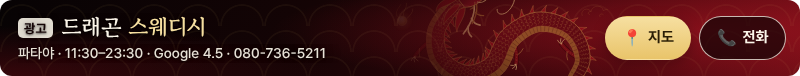
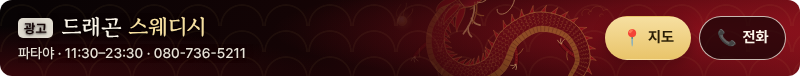
📢 광고 배너: 구글 평점 칩 뺌(약관), 모든 자리 같은 그림 확인 + 승인함 #10 실제 사진

Changed region(s): [[0.1875, 0.6316, 0.4062, 0.8158]]

diff --git a/data/ads.js b/data/ads.js
@@ -1,1 +1,1 @@
-window.TN_ADS = {"_readme": "광고 자리 설정. slots[].items 를 고치고 python3 tools/newslib.py (또는 build_data.py) 를 실행하면 data/ads.js 가 다시 만들어진다(assets/ads/massage/ad.json 도 TN_ADS.dragon 으로 같이 실림). enabled=false 면 모든 광고 숨김. item = {category, title, subtitle, image(선택, https), link(선택, https), theme(1~5), target(이 자리 추천 업종 꼬리표), render:'dragon'(드래곤 스웨디시 배너), variant:large|strip|small|bar, preview(카톡·라인 '#' 자리표시)}. 2026-10-03: 모든 자리 = 운영자 가게 드래곤 스웨디시(파타야) 배너 + '📢 이 자리 추천 업종' 꼬리표 / 2026-10-03 야간: 내 피드 지역 광고 자리 region-east|bangkok|north|south|other(사는 곳별 타게팅, 내 지역 뉴스 바로 아래) 추가 / 2026-10-03 애드센스 준비: slot.unit = 표준 광고 단위(320x100 모바일 큰 배너 · 300x250 중간 직사각형 · 336x280 큰 직사각형 · responsive 반응형) — 화면은 이 크기 칸을 미리 잡아 둠(밀림 방지). slot.adsense_slot = 애드센스 승인 뒤 받는 광고 단위 id(비어 있으면 지금처럼 드래곤 하우스 광고). 자동 광고·팝업 광고는 쓰지 않음", "enabled": true, "label": "광고", "slots": [{"id": "top", "size": "strip", "enabled": true, "items": [{"category": "한식당", "title": "드래곤 스웨디시 (파타야)", "subtitle": "파타야 3rd Road · 11:30–23:30 · ☎ 080-736-5211", "link": "https://maps.app.goo.gl/sxwzECaxPxkANutE9", "theme": 5, "render": "dragon", "variant": "bar", "target": "한식당"}], "unit": "320x100", "adsense_slot": ""}, {"id": "mid", "size": "large", "enabled": true, "items": [{"category": "부동산(콘도·임대)", "title": "드래곤 스웨디시 (파타야)", "subtitle": "파타야 3rd Road · 11:30–23:30 · ☎ 080-736-5211", "link": "https://maps.app.goo.gl/sxwzECaxPxkANutE9", "theme": 5, "render": "dragon", "variant": "large", "target": "부동산(콘도·임대)", "preview": true}], "unit": "responsive", "adsense_slot": ""}, {"id": "korea-mid", "size": "strip", "enabled": true, "items": [{"category": "환전·송금", "title": "드래곤 스웨디시 (파타야)", "subtitle": "파타야 3rd Road · 11:30–23:30 · ☎ 080-736-5211", "link": "https://maps.app.goo.gl/sxwzECaxPxkANutE9", "theme": 5, "render": "dragon", "variant": "bar", "target": "환전·송금"}], "unit": "320x100", "adsense_slot": ""}, {"id": "infeed", "size": "medium", "enabled": true, "every": 5, "items": [{"category": "비자 대행", "title": "드래곤 스웨디시 (파타야)", "subtitle": "파타야 3rd Road · 11:30–23:30 · ☎ 080-736-5211", "link": "https://maps.app.goo.gl/sxwzECaxPxkANutE9", "theme": 5, "render": "dragon", "variant": "small", "target": "비자 대행"}, {"category": "여행사·투어", "title": "드래곤 스웨디시 (파타야)", "subtitle": "파타야 3rd Road · 11:30–23:30 · ☎ 080-736-5211", "link": "https://maps.app.goo.gl/sxwzECaxPxkANutE9", "theme": 5, "render": "dragon", "variant": "small", "target": "여행사·투어"}, {"category": "병원·약국", "title": "드래곤 스웨디시 (파타야)", "subtitle": "파타야 3rd Road · 11:30–23:30 · ☎ 080-736-5211", "link": "https://maps.app.goo.gl/sxwzECaxPxkANutE9", "theme": 5, "render": "dragon", "variant": "small", "target": "병원·약국"}], "unit": "300x250", "adsense_slot": ""}, {"id": "drawer", "size": "small", "enabled": true, "items": [{"category": "골프·레저", "title": "드래곤 스웨디시 (파타야)", "subtitle": "파타야 3rd Road · 11:30–23:30 · ☎ 080-736-5211", "link": "https://maps.app.goo.gl/sxwzECaxPxkANutE9", "theme": 5, "render": "dragon", "variant": "bar", "target": "골프·레저"}], "unit": "320x100", "adsense_slot": ""}, {"id": "nearby-food", "size": "medium", "enabled": true, "items": [{"category": "한식당·맛집", "title": "드래곤 스웨디시 (파타야)", "subtitle": "파타야 3rd Road · 11:30–23:30 · ☎ 080-736-5211", "link": "https://maps.app.goo.gl/sxwzECaxPxkANutE9", "theme": 5, "render": "dragon", "variant": "small", "target": "한식당·맛집"}], "unit": "300x250", "adsense_slot": ""}, {"id": "nearby-massage", "size": "medium", "enabled": true, "items": [{"category": "마사지·스파", "title": "드래곤 스웨디시 (파타야)", "subtitle": "파타야 3rd Road · 11:30–23:30 · ☎ 080-736-5211", "link": "https://maps.app.goo.gl/sxwzECaxPxkANutE9", "theme": 5, "render": "dragon", "variant": "small", "target": "마사지·스파"}], "unit": "300x250", "adsense_slot": ""}, {"id": "nearby-pet", "size": "medium", "enabled": true, "items": [{"category": "동물병원·펫샵", "title": "드래곤 스웨디시 (파타야)", "subtitle": "파타야 3rd Road · 11:30–23:30 · ☎ 080-736-5211", "link": "https://maps.app.goo.gl/sxwzECaxPxkANutE9", "theme": 5, "render": "dragon", "variant": "small", "target": "동물병원·펫샵"}], "unit": "300x250", "adsense_slot": ""}, {"id": "nearby-beauty", "size": "medium", "enabled": true, "items": [{"category": "피부과·성형·에스테틱", "title": "드래곤 스웨디시 (파타야)", "subtitle": "파타야 3rd Road · 11:30–23:30 · ☎ 080-736-5211", "link": "https://maps.app.goo.gl/sxwzECaxPxkANutE9", "theme": 5, "render": "dragon", "variant": "small", "target": "피부과·성형·에스테틱"}], "unit": "300x250", "adsense_slot": ""}, {"id": "nearby-moto", "size": "medium", "enabled": true, "items": [{"category": "오토바이 렌탈·판매", "title": "드래곤 스웨디시 (파타야)", "subtitle": "파타야 3rd Road · 11:30–23:30 · ☎ 080-736-5211", "link": "https://maps.app.goo.gl/sxwzECaxPxkANutE9", "theme": 5, "render": "dragon", "variant": "small", "target": "오토바이 렌탈·판매"}], "unit": "300x250", "adsense_slot": ""}, {"id": "footer", "size": "wide", "enabled": true, "items": [{"category": "여행사·투어", "title": "드래곤 스웨디시 (파타야)", "subtitle": "파타야 3rd Road · 11:30–23:30 · ☎ 080-736-5211", "link": "https://maps.app.goo.gl/sxwzECaxPxkANutE9", "theme": 5, "render": "dragon", "variant": "strip", "target": "여행사·투어"}], "unit": "responsive", "adsense_slot": ""}, {"id": "region-east", "size": "medium", "enabled": true, "items": [{"category": "동부 한인 업체(부동산·식당·학원)", "title": "드래곤 스웨디시 (파타야)", "subtitle": "파타야 3rd Road · 11:30–23:30 · ☎ 080-736-5211", "link": "https://maps.app.goo.gl/sxwzECaxPxkANutE9", "theme": 5, "render": "dragon", "variant": "small", "target": "동부 한인 업체(부동산·식당·학원)"}], "unit": "300x250", "adsense_slot": ""}, {"id": "region-bangkok", "size": "medium", "enabled": true, "items": [{"category": "방콕 한인 식당·학원·병원", "title": "드래곤 스웨디시 (파타야)", "subtitle": "파타야 3rd Road · 11:30–23:30 · ☎ 080-736-5211", "link": "https://maps.app.goo.gl/sxwzECaxPxkANutE9", "theme": 5, "render": "dragon", "variant": "small", "target": "방콕 한인 식당·학원·병원"}], "unit": "300x250", "adsense_slot": ""}, {"id": "region-north", "size": "medium", "enabled": true, "items": [{"category": "치앙마이 숙소·골프·투어", "title": "드래곤 스웨디시 (파타야)", "subtitle": "파타야 3rd Road · 11:30–23:30 · ☎ 080-736-5211", "link": "https://maps.app.goo.gl/sxwzECaxPxkANutE9", "theme": 5, "render": "dragon", "variant": "small", "target": "치앙마이 숙소·골프·투어"}], "unit": "300x250", "adsense_slot": ""}, {"id": "region-south", "size": "medium", "enabled": true, "items": [{"category": "푸껫·사무이 투어·다이빙·숙소", "title": "드래곤 스웨디시 (파타야)", "subtitle": "파타야 3rd Road · 11:30–23:30 · ☎ 080-736-5211", "link": "https://maps.app.goo.gl/sxwzECaxPxkANutE9", "theme": 5, "render": "dragon", "variant": "small", "target": "푸껫·사무이 투어·다이빙·숙소"}], "unit": "300x250", "adsense_slot": ""}, {"id": "region-other", "size": "medium", "enabled": true, "items": [{"category": "여행자 보험·유심·환전", "title": "드래곤 스웨디시 (파타야)", "subtitle": "파타야 3rd Road · 11:30–23:30 · ☎ 080-736-5211", "link": "https://maps.app.goo.gl/sxwzECaxPxkANutE9", "theme": 5, "render": "dragon", "variant": "small", "target": "여행자 보험·유심·환전"}], "unit": "300x250", "adsense_slot": ""}], "dragon": {"id": "dragon-massage-pattaya", "label": "광고", "title": "드래곤 스웨디시 (파타야)", "link": "https://maps.app.goo.gl/sxwzECaxPxkANutE9", "tel": "tel:+66807365211", "kakao_url": "", "line_url": "", "display": {"brand_en": "DRAGON SWEDISH · PATTAYA", "name_lead": "드래곤", "name_main": "스웨디시", "copy": "파타야 스웨디시 마사지 · 하루의 피로를 풀어주는 편안한 휴식", "copy_short": "하루의 피로를 풀어주는 편안한 휴식", "hours_short": "11:30–23:30", "rating_short": "Google 4.5", "area_short": "파타야 3rd Road", "area_city": "파타야", "phone_display": "080-736-5211"}}};
+window.TN_ADS = {"_readme": "광고 자리 설정. slots[].items 를 고치고 python3 tools/newslib.py (또는 build_data.py) 를 실행하면 data/ads.js 가 다시 만들어진다(assets/ads/massage/ad.json 도 TN_ADS.dragon 으로 같이 실림). enabled=false 면 모든 광고 숨김. item = {category, title, subtitle, image(선택, https), link(선택, https), theme(1~5), target(이 자리 추천 업종 꼬리표), render:'dragon'(드래곤 스웨디시 배너), variant:large|strip|small|bar, preview(카톡·라인 '#' 자리표시)}. 2026-10-03: 모든 자리 = 운영자 가게 드래곤 스웨디시(파타야) 배너 + '📢 이 자리 추천 업종' 꼬리표 / 2026-10-03 야간: 내 피드 지역 광고 자리 region-east|bangkok|north|south|other(사는 곳별 타게팅, 내 지역 뉴스 바로 아래) 추가 / 2026-10-03 애드센스 준비: slot.unit = 표준 광고 단위(320x100 모바일 큰 배너 · 300x250 중간 직사각형 · 336x280 큰 직사각형 · responsive 반응형) — 화면은 이 크기 칸을 미리 잡아 둠(밀림 방지). slot.adsense_slot = 애드센스 승인 뒤 받는 광고 단위 id(비어 있으면 지금처럼 드래곤 하우스 광고). 자동 광고·팝업 광고는 쓰지 않음", "enabled": true, "label": "광고", "slots": [{"id": "top", "size": "strip", "enabled": true, "items": [{"category": "한식당", "title": "드래곤 스웨디시 (파타야)", "subtitle": "파타야 3rd Road · 11:30–23:30 · ☎ 080-736-5211", "link": "https://maps.app.goo.gl/sxwzECaxPxkANutE9", "theme": 5, "render": "dragon", "variant": "bar", "target": "한식당"}], "unit": "320x100", "adsense_slot": ""}, {"id": "mid", "size": "large", "enabled": true, "items": [{"category": "부동산(콘도·임대)", "title": "드래곤 스웨디시 (파타야)", "subtitle": "파타야 3rd Road · 11:30–23:30 · ☎ 080-736-5211", "link": "https://maps.app.goo.gl/sxwzECaxPxkANutE9", "theme": 5, "render": "dragon", "variant": "large", "target": "부동산(콘도·임대)", "preview": true}], "unit": "responsive", "adsense_slot": ""}, {"id": "korea-mid", "size": "strip", "enabled": true, "items": [{"category": "환전·송금", "title": "드래곤 스웨디시 (파타야)", "subtitle": "파타야 3rd Road · 11:30–23:30 · ☎ 080-736-5211", "link": "https://maps.app.goo.gl/sxwzECaxPxkANutE9", "theme": 5, "render": "dragon", "variant": "bar", "target": "환전·송금"}], "unit": "320x100", "adsense_slot": ""}, {"id": "infeed", "size": "medium", "enabled": true, "every": 5, "items": [{"category": "비자 대행", "title": "드래곤 스웨디시 (파타야)", "subtitle": "파타야 3rd Road · 11:30–23:30 · ☎ 080-736-5211", "link": "https://maps.app.goo.gl/sxwzECaxPxkANutE9", "theme": 5, "render": "dragon", "variant": "small", "target": "비자 대행"}, {"category": "여행사·투어", "title": "드래곤 스웨디시 (파타야)", "subtitle": "파타야 3rd Road · 11:30–23:30 · ☎ 080-736-5211", "link": "https://maps.app.goo.gl/sxwzECaxPxkANutE9", "theme": 5, "render": "dragon", "variant": "small", "target": "여행사·투어"}, {"category": "병원·약국", "title": "드래곤 스웨디시 (파타야)", "subtitle": "파타야 3rd Road · 11:30–23:30 · ☎ 080-736-5211", "link": "https://maps.app.goo.gl/sxwzECaxPxkANutE9", "theme": 5, "render": "dragon", "variant": "small", "target": "병원·약국"}], "unit": "300x250", "adsense_slot": ""}, {"id": "drawer", "size": "small", "enabled": true, "items": [{"category": "골프·레저", "title": "드래곤 스웨디시 (파타야)", "subtitle": "파타야 3rd Road · 11:30–23:30 · ☎ 080-736-5211", "link": "https://maps.app.goo.gl/sxwzECaxPxkANutE9", "theme": 5, "render": "dragon", "variant": "bar", "target": "골프·레저"}], "unit": "320x100", "adsense_slot": ""}, {"id": "nearby-food", "size": "medium", "enabled": true, "items": [{"category": "한식당·맛집", "title": "드래곤 스웨디시 (파타야)", "subtitle": "파타야 3rd Road · 11:30–23:30 · ☎ 080-736-5211", "link": "https://maps.app.goo.gl/sxwzECaxPxkANutE9", "theme": 5, "render": "dragon", "variant": "small", "target": "한식당·맛집"}], "unit": "300x250", "adsense_slot": ""}, {"id": "nearby-massage", "size": "medium", "enabled": true, "items": [{"category": "마사지·스파", "title": "드래곤 스웨디시 (파타야)", "subtitle": "파타야 3rd Road · 11:30–23:30 · ☎ 080-736-5211", "link": "https://maps.app.goo.gl/sxwzECaxPxkANutE9", "theme": 5, "render": "dragon", "variant": "small", "target": "마사지·스파"}], "unit": "300x250", "adsense_slot": ""}, {"id": "nearby-pet", "size": "medium", "enabled": true, "items": [{"category": "동물병원·펫샵", "title": "드래곤 스웨디시 (파타야)", "subtitle": "파타야 3rd Road · 11:30–23:30 · ☎ 080-736-5211", "link": "https://maps.app.goo.gl/sxwzECaxPxkANutE9", "theme": 5, "render": "dragon", "variant": "small", "target": "동물병원·펫샵"}], "unit": "300x250", "adsense_slot": ""}, {"id": "nearby-beauty", "size": "medium", "enabled": true, "items": [{"category": "피부과·성형·에스테틱", "title": "드래곤 스웨디시 (파타야)", "subtitle": "파타야 3rd Road · 11:30–23:30 · ☎ 080-736-5211", "link": "https://maps.app.goo.gl/sxwzECaxPxkANutE9", "theme": 5, "render": "dragon", "variant": "small", "target": "피부과·성형·에스테틱"}], "unit": "300x250", "adsense_slot": ""}, {"id": "nearby-moto", "size": "medium", "enabled": true, "items": [{"category": "오토바이 렌탈·판매", "title": "드래곤 스웨디시 (파타야)", "subtitle": "파타야 3rd Road · 11:30–23:30 · ☎ 080-736-5211", "link": "https://maps.app.goo.gl/sxwzECaxPxkANutE9", "theme": 5, "render": "dragon", "variant": "small", "target": "오토바이 렌탈·판매"}], "unit": "300x250", "adsense_slot": ""}, {"id": "footer", "size": "wide", "enabled": true, "items": [{"category": "여행사·투어", "title": "드래곤 스웨디시 (파타야)", "subtitle": "파타야 3rd Road · 11:30–23:30 · ☎ 080-736-5211", "link": "https://maps.app.goo.gl/sxwzECaxPxkANutE9", "theme": 5, "render": "dragon", "variant": "strip", "target": "여행사·투어"}], "unit": "responsive", "adsense_slot": ""}, {"id": "region-east", "size": "medium", "enabled": true, "items": [{"category": "동부 한인 업체(부동산·식당·학원)", "title": "드래곤 스웨디시 (파타야)", "subtitle": "파타야 3rd Road · 11:30–23:30 · ☎ 080-736-5211", "link": "https://maps.app.goo.gl/sxwzECaxPxkANutE9", "theme": 5, "render": "dragon", "variant": "small", "target": "동부 한인 업체(부동산·식당·학원)"}], "unit": "300x250", "adsense_slot": ""}, {"id": "region-bangkok", "size": "medium", "enabled": true, "items": [{"category": "방콕 한인 식당·학원·병원", "title": "드래곤 스웨디시 (파타야)", "subtitle": "파타야 3rd Road · 11:30–23:30 · ☎ 080-736-5211", "link": "https://maps.app.goo.gl/sxwzECaxPxkANutE9", "theme": 5, "render": "dragon", "variant": "small", "target": "방콕 한인 식당·학원·병원"}], "unit": "300x250", "adsense_slot": ""}, {"id": "region-north", "size": "medium", "enabled": true, "items": [{"category": "치앙마이 숙소·골프·투어", "title": "드래곤 스웨디시 (파타야)", "subtitle": "파타야 3rd Road · 11:30–23:30 · ☎ 080-736-5211", "link": "https://maps.app.goo.gl/sxwzECaxPxkANutE9", "theme": 5, "render": "dragon", "variant": "small", "target": "치앙마이 숙소·골프·투어"}], "unit": "300x250", "adsense_slot": ""}, {"id": "region-south", "size": "medium", "enabled": true, "items": [{"category": "푸껫·사무이 투어·다이빙·숙소", "title": "드래곤 스웨디시 (파타야)", "subtitle": "파타야 3rd Road · 11:30–23:30 · ☎ 080-736-5211", "link": "https://maps.app.goo.gl/sxwzECaxPxkANutE9", "theme": 5, "render": "dragon", "variant": "small", "target": "푸껫·사무이 투어·다이빙·숙소"}], "unit": "300x250", "adsense_slot": ""}, {"id": "region-other", "size": "medium", "enabled": true, "items": [{"category": "여행자 보험·유심·환전", "title": "드래곤 스웨디시 (파타야)", "subtitle": "파타야 3rd Road · 11:30–23:30 · ☎ 080-736-5211", "link": "https://maps.app.goo.gl/sxwzECaxPxkANutE9", "theme": 5, "render": "dragon", "variant": "small", "target": "여행자 보험·유심·환전"}], "unit": "300x250", "adsense_slot": ""}], "dragon": {"id": "dragon-massage-pattaya", "label": "광고", "title": "드래곤 스웨디시 (파타야)", "link": "https://maps.app.goo.gl/sxwzECaxPxkANutE9", "tel": "tel:+66807365211", "kakao_url": "", "line_url": "", "display": {"brand_en": "DRAGON SWEDISH · PATTAYA", "name_lead": "드래곤", "name_main": "스웨디시", "copy": "파타야 스웨디시 마사지 · 하루의 피로를 풀어주는 편안한 휴식", "copy_short": "하루의 피로를 풀어주는 편안한 휴식", "hours_short": "11:30–23:30", "rating_short": null, "area_short": "파타야 3rd Road", "area_city": "파타야", "phone_display": "080-736-5211"}}};

diff --git a/data/pending.js b/data/pending.js
@@ -1,1 +1,1 @@
-window.TN_PENDING = {"_readme": "관리자 승인함(#approve) 목록 — tools/pending.py 가 PENDING_APPROVAL.md 에서 만듦. 승인은 민구님이 고르고 봇이 다음 실행에 반영(자동 승인 없음)", "updated_at": "2026-10-03T17:15:20+07:00", "items": [{"id": "p1", "no": 1, "kind": "기능 켜기(결정)", "body": "**2단계 시작 화면 다시 켜기** — '📍 어디 사세요?'(동부·방콕·북부·남부·그 외) → '관심(생활·여행·사업·비자)' → 내 피드를 📌꼭 봐야 할 뉴스·내 지역·지역 광고·전국 순으로. 지금은 민구님 답변대로 꺼 둠. 사진: backups/backup-20261003-1345-onboarding/after-onboarding.jpg backups/backup-20261003-1345-onboarding/after-onboarding2.jpg backups/backup-20261003-1345-onboarding/after-myfeed.jpg", "where": "assets/topics.js `OB2 = true` 한 줄(README '보류' 줄)", "status": "보류 중"}, {"id": "p2", "no": 2, "kind": "사이트 규칙(개인정보)", "body": "**하트·🙌·🙅 익명 집계 시작** — 기사별 반응 수를 사는 곳(추정)·관심(추정)·주제와 함께 모음. 이름·이메일·성별·기기 정보는 저장 안 함. 개인정보 처리방침 초안(④)에 이 문장을 넣고, Firestore 규칙 게시(LOGIN_TODO) 뒤 보내기 스위치를 켬", "where": "assets/social.js `RX_ON = true` + 개인정보 처리방침", "status": "대기"}, {"id": "p3", "no": 3, "kind": "법적 문서(최종 문구)", "body": "**개인정보 처리방침·이용약관·소개·연락하기 초안 확정** — 4쪽 초안을 사이트에 '📝 초안' 띠와 함께 올려 둠(푸터·☰ 메뉴 '안내'). [대괄호] 칸을 정해 주세요: ① 운영자 표시 이름(실명/별명) ② 연락 이메일(개인 메일 대신 사이트 전용 주소 권장) ③ 삭제 요청 처리 기한 ④ 답변 기간 ⑤ '요약에 AI 도구 도움' 문장을 그대로 둘지. OK 하시면 값을 넣고 초안 띠를 뗌. 사진: backups/backup-20261003-1439-adsense-prep/after-privacy.jpg backups/backup-20261003-1439-adsense-prep/after-footer.jpg", "where": "privacy.html·terms.html·about.html·contact.html (`tools/legal_pages.py` 의 PAGES·DRAFT)", "status": "대기"}, {"id": "p4", "no": 4, "kind": "사이트 규칙(검색 노출)", "body": "**검색엔진 막기 풀기** — 지금 모든 쪽이 `noindex, nofollow` + robots.txt `Disallow: /`. 애드센스 심사는 사이트를 읽을 수 있어야 해서 신청 전에 풀어야 함(구글 검색에도 뜨기 시작). 신청 직전에 풀기를 권함. **고를 안 A/B/C + 공식 문서 링크: CHOICE_MEMO_4_5.md**", "where": "index.html·안내 4쪽 meta robots, robots.txt", "status": "대기"}, {"id": "p5", "no": 5, "kind": "사이트 규칙(주소)", "body": "**ads.txt 를 둘 곳 정하기** — 애드센스는 도메인 맨 위 파일만 읽음. (가) GitHub 에 `p-max168.github.io` 저장소를 새로 만들어 ads.txt 하나만 두기(무료) 또는 (나) 맞춤 도메인 구입(유료, 연 약 400~600밧). 지금 저장소의 ads.txt 는 주석만 있는 자리표시. **무료 (가)(나) 먼저 + 유료 .com/.net/.org 연 가격(바트·원, Porkbun·Namecheap 가격표 링크) + 애드센스 공식 문서: CHOICE_MEMO_4_5.md**", "where": "ads.txt", "status": "대기"}, {"id": "p6", "no": 6, "kind": "영업(유료 상품 시안)", "body": "**가게 카드 '기본 무료' vs '6개월 상단 고정(소액)'** — 시안만, 판매·결제·실제 광고 없음. 정해 주실 것: ① 상단 고정 가격 ② 결제 방법 ③ 한 종류당 고정 칸 수(1~2) ④ '광고' 표시 문구. 사진: backups/backup-20261003-1540-places-test/mockup-package.jpg", "where": "`tools/places/mockup-package.html`(사이트에 링크 안 됨) → OK 뒤 assets/places.js 에 `pinned` 칸 추가", "status": "대기"}, {"id": "p7", "no": 7, "kind": "연락 채널(운영자 이름)", "body": "**가게 카드 '✋ 정보 틀림 알리기(카톡)' 링크** — 운영자 카카오톡 채널(또는 오픈채팅) 주소를 정해 주세요. 지금은 광고 배너와 같은 자리표시(누르면 '카톡 문의 링크를 준비 중이에요'). 사진: backups/backup-20261003-1540-places-test/after-places-pet.jpg", "where": "`data/places-pattaya.json` `report_kakao_url`(tools/places/build_places.py)", "status": "대기"}, {"id": "p8", "no": 8, "kind": "영업(가게 참여 시안)", "body": "**가게 주인이 가격·영업시간 알려 주기(무료)** — 시안만, 보내기·저장·결제·실제 등록 없음. 카드에 '🏪 사장님이세요? 가격·영업시간 알려 주기' 버튼 → 요일별 시간·대표 메뉴 3개 가격(바트, 원화는 자동)·증빙 사진 1장·확인 연락처 → 운영자 확인 뒤 '✔ 가게가 알려 줌 · 날짜 · 확인 방법' 표시. 정해 주실 것: ① 받는 곳(카톡 채널 / 구글 설문지 / 사이트 안 칸 = Firestore 규칙 필요) ② 확인 방법(사진 + 전화 권장) ③ 표시 문구 ④ 무료 유지(권장, #6 상단 고정과 따로). 사진: backups/backup-20261003-1624-owner-mockup/mockup-owner.jpg", "where": "`tools/places/mockup-owner.html`(사이트에 링크 안 됨) → OK 뒤 assets/places.js 버튼 + data 의 `srcs` 에 '가게가 알려 줌' 출처", "status": "대기"}, {"id": "p9", "no": 9, "kind": "공개 여부(임대 카드)", "body": "**아침에 민구님이 보고 메뉴에 열지 결정** — 지금은 사이트 어디에도 링크 없음(`#rent`, 개발 도구로만 열림). ⚠ 17:20 방콕: 출처 FazWaz 이용 약관이 내용 복사·추출·모으기를 허락 없이 금지(https://www.lifullconnect.com/legal-notice-fazwaz/)라 **매물 10개는 내림** — 쪽에는 '내렸어요' 안내 + 약관 링크만. 메뉴에 열려면 허락받은 출처(제휴·API·가게·중개인이 직접 준 매물)가 먼저 필요. 사진: backups/backup-20261003-1714-rent-takedown/", "where": "`data/rentals-pattaya.json`(빈 목록) · assets/places.js `rent` 쪽", "status": "대기"}]};
+window.TN_PENDING = {"_readme": "관리자 승인함(#approve) 목록 — tools/pending.py 가 PENDING_APPROVAL.md 에서 만듦. 승인은 민구님이 고르고 봇이 다음 실행에 반영(자동 승인 없음)", "updated_at": "2026-10-03T17:51:10+07:00", "items": [{"id": "p1", "no": 1, "kind": "기능 켜기(결정)", "body": "**2단계 시작 화면 다시 켜기** — '📍 어디 사세요?'(동부·방콕·북부·남부·그 외) → '관심(생활·여행·사업·비자)' → 내 피드를 📌꼭 봐야 할 뉴스·내 지역·지역 광고·전국 순으로. 지금은 민구님 답변대로 꺼 둠. 사진: backups/backup-20261003-1345-onboarding/after-onboarding.jpg backups/backup-20261003-1345-onboarding/after-onboarding2.jpg backups/backup-20261003-1345-onboarding/after-myfeed.jpg", "where": "assets/topics.js `OB2 = true` 한 줄(README '보류' 줄)", "status": "보류 중"}, {"id": "p2", "no": 2, "kind": "사이트 규칙(개인정보)", "body": "**하트·🙌·🙅 익명 집계 시작** — 기사별 반응 수를 사는 곳(추정)·관심(추정)·주제와 함께 모음. 이름·이메일·성별·기기 정보는 저장 안 함. 개인정보 처리방침 초안(④)에 이 문장을 넣고, Firestore 규칙 게시(LOGIN_TODO) 뒤 보내기 스위치를 켬", "where": "assets/social.js `RX_ON = true` + 개인정보 처리방침", "status": "대기"}, {"id": "p3", "no": 3, "kind": "법적 문서(최종 문구)", "body": "**개인정보 처리방침·이용약관·소개·연락하기 초안 확정** — 4쪽 초안을 사이트에 '📝 초안' 띠와 함께 올려 둠(푸터·☰ 메뉴 '안내'). [대괄호] 칸을 정해 주세요: ① 운영자 표시 이름(실명/별명) ② 연락 이메일(개인 메일 대신 사이트 전용 주소 권장) ③ 삭제 요청 처리 기한 ④ 답변 기간 ⑤ '요약에 AI 도구 도움' 문장을 그대로 둘지. OK 하시면 값을 넣고 초안 띠를 뗌. 사진: backups/backup-20261003-1439-adsense-prep/after-privacy.jpg backups/backup-20261003-1439-adsense-prep/after-footer.jpg", "where": "privacy.html·terms.html·about.html·contact.html (`tools/legal_pages.py` 의 PAGES·DRAFT)", "status": "대기"}, {"id": "p4", "no": 4, "kind": "사이트 규칙(검색 노출)", "body": "**검색엔진 막기 풀기** — 지금 모든 쪽이 `noindex, nofollow` + robots.txt `Disallow: /`. 애드센스 심사는 사이트를 읽을 수 있어야 해서 신청 전에 풀어야 함(구글 검색에도 뜨기 시작). 신청 직전에 풀기를 권함. **고를 안 A/B/C + 공식 문서 링크: CHOICE_MEMO_4_5.md**", "where": "index.html·안내 4쪽 meta robots, robots.txt", "status": "대기"}, {"id": "p5", "no": 5, "kind": "사이트 규칙(주소)", "body": "**ads.txt 를 둘 곳 정하기** — 애드센스는 도메인 맨 위 파일만 읽음. (가) GitHub 에 `p-max168.github.io` 저장소를 새로 만들어 ads.txt 하나만 두기(무료) 또는 (나) 맞춤 도메인 구입(유료, 연 약 400~600밧). 지금 저장소의 ads.txt 는 주석만 있는 자리표시. **무료 (가)(나) 먼저 + 유료 .com/.net/.org 연 가격(바트·원, Porkbun·Namecheap 가격표 링크) + 애드센스 공식 문서: CHOICE_MEMO_4_5.md**", "where": "ads.txt", "status": "대기"}, {"id": "p6", "no": 6, "kind": "영업(유료 상품 시안)", "body": "**가게 카드 '기본 무료' vs '6개월 상단 고정(소액)'** — 시안만, 판매·결제·실제 광고 없음. 정해 주실 것: ① 상단 고정 가격 ② 결제 방법 ③ 한 종류당 고정 칸 수(1~2) ④ '광고' 표시 문구. 사진: backups/backup-20261003-1540-places-test/mockup-package.jpg", "where": "`tools/places/mockup-package.html`(사이트에 링크 안 됨) → OK 뒤 assets/places.js 에 `pinned` 칸 추가", "status": "대기"}, {"id": "p7", "no": 7, "kind": "연락 채널(운영자 이름)", "body": "**가게 카드 '✋ 정보 틀림 알리기(카톡)' 링크** — 운영자 카카오톡 채널(또는 오픈채팅) 주소를 정해 주세요. 지금은 광고 배너와 같은 자리표시(누르면 '카톡 문의 링크를 준비 중이에요'). 사진: backups/backup-20261003-1540-places-test/after-places-pet.jpg", "where": "`data/places-pattaya.json` `report_kakao_url`(tools/places/build_places.py)", "status": "대기"}, {"id": "p8", "no": 8, "kind": "영업(가게 참여 시안)", "body": "**가게 주인이 가격·영업시간 알려 주기(무료)** — 시안만, 보내기·저장·결제·실제 등록 없음. 카드에 '🏪 사장님이세요? 가격·영업시간 알려 주기' 버튼 → 요일별 시간·대표 메뉴 3개 가격(바트, 원화는 자동)·증빙 사진 1장·확인 연락처 → 운영자 확인 뒤 '✔ 가게가 알려 줌 · 날짜 · 확인 방법' 표시. 정해 주실 것: ① 받는 곳(카톡 채널 / 구글 설문지 / 사이트 안 칸 = Firestore 규칙 필요) ② 확인 방법(사진 + 전화 권장) ③ 표시 문구 ④ 무료 유지(권장, #6 상단 고정과 따로). 사진: backups/backup-20261003-1624-owner-mockup/mockup-owner.jpg", "where": "`tools/places/mockup-owner.html`(사이트에 링크 안 됨) → OK 뒤 assets/places.js 버튼 + data 의 `srcs` 에 '가게가 알려 줌' 출처", "status": "대기"}, {"id": "p9", "no": 9, "kind": "공개 여부(임대 카드)", "body": "**아침에 민구님이 보고 메뉴에 열지 결정** — 지금은 사이트 어디에도 링크 없음(`#rent`, 개발 도구로만 열림). ⚠ 17:20 방콕: 출처 FazWaz 이용 약관이 내용 복사·추출·모으기를 허락 없이 금지(https://www.lifullconnect.com/legal-notice-fazwaz/)라 **매물 10개는 내림** — 쪽에는 '내렸어요' 안내 + 약관 링크만. 메뉴에 열려면 허락받은 출처(제휴·API·가게·중개인이 직접 준 매물)가 먼저 필요. 사진: backups/backup-20261003-1714-rent-takedown/", "where": "`data/rentals-pattaya.json`(빈 목록) · assets/places.js `rent` 쪽", "status": "대기"}, {"id": "p10", "no": 10, "kind": "광고 사진(드래곤 스웨디시 배너)", "body": "**실제 가게 사진을 배너에 넣을지** — 지금 광고 자리 16곳(맨 위·큰 배너·기사 사이 3·한국 뉴스 사이·메뉴·내 주변 5·지역 5·맨 아래)은 전부 같은 그림(용 그림 dragon.svg) + 같은 색·글꼴. 실제 사진은 없음: 구글 지도 사진은 약관상 못 씀, 지어낸 사진·남의 사진도 안 씀. 운영자가 직접 찍은 가게 사진(가로 사진 1장, 얼굴·손님 없이)을 주시면 같은 모양으로 넣음. 같이 바뀐 것: 구글 평점 칩(Google 4.5) 뺌. 사진: backups/backup-20261003-1749-ad-photos/", "where": "`assets/ads/massage/ad.json` · `dragon-ad.js`", "status": "대기"}]};

diff --git a/sw.js b/sw.js
@@ -9,13 +9,13 @@
  * - Google 로그인·Firestore(firebase / googleapis / gstatic SDK / firebaseapp.com / google.com 계정 창)는
  *   절대 가로채거나 캐시하지 않는다(그냥 브라우저가 직접 요청). 글꼴(fonts.googleapis/gstatic)만 예외로 캐시.
  */
-var VERSION = "tnk-79fcc2be52";
+var VERSION = "tnk-f6bc0c9321";
 var SHELL = "shell-" + VERSION, DATA = "data-v1", EXT = "ext-v1";
 var SHELL_FILES = [
   "./", "index.html", "manifest.json", "offline.html",
   "assets/style.css?v=9deb9877", "assets/topics.js?v=3e951135", "assets/prefs.js?v=280ab29a", "assets/taste.js?v=788775b8", "assets/adsafe.js?v=f83c8d3e", "assets/app.js?v=bfbbbc16", "assets/social.js?v=4caae75d", "assets/ticker.js?v=3f5803ed",
   "assets/nearby.css?v=2cd0d2cb", "assets/late.css?v=d8f2a644", "assets/nearby.js?v=a1c50515", "assets/pages.js?v=39e6c79e", "assets/places.js?v=b4ce2cb2",
-  "assets/ads/massage/dragon-ad.css?v=992ae706", "assets/ads/massage/dragon-ad.js?v=1961d18e", "assets/ads/massage/dragon.svg",
+  "assets/ads/massage/dragon-ad.css?v=992ae706", "assets/ads/massage/dragon-ad.js?v=c84a92c4", "assets/ads/massage/dragon.svg",
   "assets/icons/icon-192.png", "assets/icons/icon-512.png", "assets/icons/maskable-512.png",
   "assets/icons/apple-touch-icon.png", "assets/icons/favicon-32.png"
 ];

diff --git a/assets/ads/massage/banner-large.html b/assets/ads/massage/banner-large.html
@@ -7,7 +7,7 @@
 <div class="dm-ad__in">
 <a class="dm-ad__cover" href="https://maps.app.goo.gl/sxwzECaxPxkANutE9" target="_blank" rel="sponsored noopener" aria-label="드래곤 스웨디시 (파타야) – Google 지도 보기">
 </a>
-<img class="dm-ad__art" src="assets/ads/massage/dragon.svg" alt="" width="760" height="600" aria-hidden="true">
+<img class="dm-ad__art" src="assets/ads/massage/dragon.svg" alt="" width="760" height="600" loading="lazy" decoding="async" aria-hidden="true">
 <span class="dm-ad__tag">광고</span>
 <div class="dm-ad__body">
 <p class="dm-ad__en">DRAGON SWEDISH · PATTAYA</p>
@@ -21,10 +21,6 @@
 <circle cx="12" cy="12" r="9"/>
 <path d="M12 7v5l3.5 2"/>
 </svg>11:30–23:30</li>
-<li class="dm-ad__chip">
-<svg viewBox="0 0 24 24" aria-hidden="true">
-<path fill="#e9c46a" d="M12 2.8l2.8 5.9 6.4.8-4.7 4.4 1.2 6.4L12 17.2l-5.7 3.1 1.2-6.4L2.8 9.5l6.4-.8z"/>
-</svg>Google 4.5</li>
 <li class="dm-ad__chip">
 <svg viewBox="0 0 24 24" fill="none" stroke="#e9c46a" stroke-width="2.2" stroke-linejoin="round" aria-hidden="true">
 <path d="M12 21s-7-6.2-7-11.5A7 7 0 0 1 19 9.5C19 14.8 12 21 12 21z"/>

diff --git a/assets/ads/massage/banner-small.html b/assets/ads/massage/banner-small.html
@@ -7,7 +7,7 @@
 <div class="dm-ad__in">
 <a class="dm-ad__cover" href="https://maps.app.goo.gl/sxwzECaxPxkANutE9" target="_blank" rel="sponsored noopener" aria-label="드래곤 스웨디시 (파타야) – Google 지도 보기">
 </a>
-<img class="dm-ad__art" src="assets/ads/massage/dragon.svg" alt="" width="760" height="600" aria-hidden="true">
+<img class="dm-ad__art" src="assets/ads/massage/dragon.svg" alt="" width="760" height="600" loading="lazy" decoding="async" aria-hidden="true">
 <span class="dm-ad__tag">광고</span>
 <div class="dm-ad__body">
 <p class="dm-ad__en">DRAGON SWEDISH · PATTAYA</p>
@@ -21,10 +21,6 @@
 <circle cx="12" cy="12" r="9"/>
 <path d="M12 7v5l3.5 2"/>
 </svg>11:30–23:30</li>
-<li class="dm-ad__chip">
-<svg viewBox="0 0 24 24" aria-hidden="true">
-<path fill="#e9c46a" d="M12 2.8l2.8 5.9 6.4.8-4.7 4.4 1.2 6.4L12 17.2l-5.7 3.1 1.2-6.4L2.8 9.5l6.4-.8z"/>
-</svg>Google 4.5</li>
 <li class="dm-ad__chip">
 <svg viewBox="0 0 24 24" fill="none" stroke="#e9c46a" stroke-width="2.2" stroke-linejoin="round" aria-hidden="true">
 <path d="M12 21s-7-6.2-7-11.5A7 7 0 0 1 19 9.5C19 14.8 12 21 12 21z"/>

diff --git a/assets/ads/massage/banner-strip.html b/assets/ads/massage/banner-strip.html
@@ -7,7 +7,7 @@
 <div class="dm-ad__in">
 <a class="dm-ad__cover" href="https://maps.app.goo.gl/sxwzECaxPxkANutE9" target="_blank" rel="sponsored noopener" aria-label="드래곤 스웨디시 (파타야) – Google 지도 보기">
 </a>
-<img class="dm-ad__art" src="assets/ads/massage/dragon.svg" alt="" width="760" height="600" aria-hidden="true">
+<img class="dm-ad__art" src="assets/ads/massage/dragon.svg" alt="" width="760" height="600" loading="lazy" decoding="async" aria-hidden="true">
 <span class="dm-ad__tag">광고</span>
 <div class="dm-ad__body">
 <p class="dm-ad__en">DRAGON SWEDISH · PATTAYA</p>
@@ -21,10 +21,6 @@
 <circle cx="12" cy="12" r="9"/>
 <path d="M12 7v5l3.5 2"/>
 </svg>11:30–23:30</li>
-<li class="dm-ad__chip">
-<svg viewBox="0 0 24 24" aria-hidden="true">
-<path fill="#e9c46a" d="M12 2.8l2.8 5.9 6.4.8-4.7 4.4 1.2 6.4L12 17.2l-5.7 3.1 1.2-6.4L2.8 9.5l6.4-.8z"/>
-</svg>Google 4.5</li>
 <li class="dm-ad__chip">
 <svg viewBox="0 0 24 24" fill="none" stroke="#e9c46a" stroke-width="2.2" stroke-linejoin="round" aria-hidden="true">
 <path d="M12 21s-7-6.2-7-11.5A7 7 0 0 1 19 9.5C19 14.8 12 21 12 21z"/>

diff --git a/assets/ads/massage/dragon-ad.js b/assets/ads/massage/dragon-ad.js
@@ -59,7 +59,7 @@
     var body = v === "bar"
       ? '<div class="dm-ad__body"><p class="dm-ad__name">' + tag + " " + esc(d.name_lead) + " <b>" + esc(d.name_main) + "</b></p>" +
         '<p class="dm-ad__copy"><span>' + esc(d.area_city || d.area_short) + "</span> · <span>" + esc(d.hours_short) + "</span>" +
-        '<span class="dm-ad__more"> · ' + esc(d.rating_short) + " · " + esc(d.phone_display) + "</span></p></div>"
+        '<span class="dm-ad__more"> · ' + [d.rating_short, d.phone_display].filter(Boolean).map(esc).join(" · ") + "</span></p></div>"
       : tag + '<div class="dm-ad__body"><p class="dm-ad__en">' + esc(d.brand_en) + "</p>" +
         '<p class="dm-ad__name">' + esc(d.name_lead) + " <b>" + esc(d.name_main) + "</b></p>" +
         '<p class="dm-ad__copy">' + esc(v === "small" ? d.copy_short || d.copy : d.copy) + "</p></div>" +

diff --git a/assets/ads/massage/banner-bar.html b/assets/ads/massage/banner-bar.html
@@ -7,14 +7,14 @@
 <div class="dm-ad__in">
 <a class="dm-ad__cover" href="https://maps.app.goo.gl/sxwzECaxPxkANutE9" target="_blank" rel="sponsored noopener" aria-label="드래곤 스웨디시 (파타야) – Google 지도 보기">
 </a>
-<img class="dm-ad__art" src="assets/ads/massage/dragon.svg" alt="" width="760" height="600" aria-hidden="true">
+<img class="dm-ad__art" src="assets/ads/massage/dragon.svg" alt="" width="760" height="600" loading="lazy" decoding="async" aria-hidden="true">
 <div class="dm-ad__body">
 <p class="dm-ad__name">
 <span class="dm-ad__tag">광고</span> 드래곤 <b>스웨디시</b>
 </p>
 <p class="dm-ad__copy">
 <span>파타야</span> · <span>11:30–23:30</span>
-<span class="dm-ad__more"> · Google 4.5 · 080-736-5211</span>
+<span class="dm-ad__more"> · 080-736-5211</span>
 </p>
 </div>
 <div class="dm-ad__cta">

diff --git a/index.html b/index.html
@@ -133,7 +133,7 @@
 <!-- 데이터: file:// 에서도 동작하도록 JS 로 로드(data/index.js 는 head 에서) -->
 <script src="data/ads.js" onerror="window.TN_ADS=null"></script>
 <!-- 드래곤 스웨디시 광고 그리기(app.js·nearby.js 보다 먼저) -->
-<script src="assets/ads/massage/dragon-ad.js?v=1961d18e"></script>
+<script src="assets/ads/massage/dragon-ad.js?v=c84a92c4"></script>
 <script src="assets/topics.js?v=3e951135"></script>
 <script src="assets/prefs.js?v=280ab29a"></script>
 <script src="assets/taste.js?v=788775b8"></script>

diff --git a/tools/dev/regress.py b/tools/dev/regress.py
@@ -67,9 +67,9 @@ async def main():
             await pg.locator("#feed .card [data-vote='1'][aria-pressed='true']").first.click(); await pg.wait_for_timeout(300)   # 취소(원상복구)
         else: rec(False, "🙌 더 보여줘 / 🙅 덜 보여줘", "버튼 없음")
         # 광고
-        ads = await pg.evaluate("""()=>[...document.querySelectorAll('[data-ad-slot]:not([hidden]), .ad-slot--feed')].filter(e=>e.offsetParent!==null||e.closest('#drawer')).map(e=>({id:e.getAttribute('data-ad-slot')||'infeed', dm: !!e.querySelector('.dm-ad'), img: !!e.querySelector('img, picture'), tag: !!e.querySelector('.dm-target') && /이 자리 추천 업종/.test(e.querySelector('.dm-target').textContent), tel: !!e.querySelector('a[href="tel:+66807365211"]')}))""")
-        bad = [a["id"] for a in ads if not (a["dm"] and a["img"] and a["tag"])]
-        rec(len(ads) >= 4 and not bad, "광고 자리 = 드래곤 배너 + 사진 + 📢 추천 업종", "%d자리, 문제: %s" % (len(ads), bad or "없음"))
+        ads = await pg.evaluate("""()=>[...document.querySelectorAll('[data-ad-slot]:not([hidden]), .ad-slot--feed')].filter(e=>e.offsetParent!==null||e.closest('#drawer')).map(e=>({id:e.getAttribute('data-ad-slot')||'infeed', dm: !!e.querySelector('.dm-ad'), img: !!e.querySelector('img, picture'), art: [...e.querySelectorAll('.dm-ad__art')].every(i=>i.getAttribute('src')&&/dragon\.svg/.test(i.getAttribute('src'))), gr: /평점|Google \d/.test(e.textContent), tag: !!e.querySelector('.dm-target') && /이 자리 추천 업종/.test(e.querySelector('.dm-target').textContent), tel: !!e.querySelector('a[href="tel:+66807365211"]')}))""")
+        bad = [a["id"] for a in ads if not (a["dm"] and a["img"] and a["art"] and a["tag"] and not a["gr"])]
+        rec(len(ads) >= 4 and not bad, "광고 자리 = 드래곤 배너 + 같은 그림(dragon.svg) + 📢 추천 업종, 구글 평점 없음", "%d자리, 문제: %s" % (len(ads), bad or "없음"))
         rec(any(a["tel"] for a in ads), "전화 링크 tel:+66807365211")
         # 태국 문자·원화
         await pg.goto(URL + ("&" if "?" in URL else "?") + "tab=all&_=" + str(int(time.time())), wait_until="networkidle"); await pg.wait_for_timeout(600)

diff --git a/PENDING_APPROVAL.md b/PENDING_APPROVAL.md
@@ -14,3 +14,4 @@
 | 7 | 연락 채널(운영자 이름) | **가게 카드 '✋ 정보 틀림 알리기(카톡)' 링크** — 운영자 카카오톡 채널(또는 오픈채팅) 주소를 정해 주세요. 지금은 광고 배너와 같은 자리표시(누르면 '카톡 문의 링크를 준비 중이에요'). 사진: backups/backup-20261003-1540-places-test/after-places-pet.jpg | `data/places-pattaya.json` `report_kakao_url`(tools/places/build_places.py) | 대기 |
 | 8 | 영업(가게 참여 시안) | **가게 주인이 가격·영업시간 알려 주기(무료)** — 시안만, 보내기·저장·결제·실제 등록 없음. 카드에 '🏪 사장님이세요? 가격·영업시간 알려 주기' 버튼 → 요일별 시간·대표 메뉴 3개 가격(바트, 원화는 자동)·증빙 사진 1장·확인 연락처 → 운영자 확인 뒤 '✔ 가게가 알려 줌 · 날짜 · 확인 방법' 표시. 정해 주실 것: ① 받는 곳(카톡 채널 / 구글 설문지 / 사이트 안 칸 = Firestore 규칙 필요) ② 확인 방법(사진 + 전화 권장) ③ 표시 문구 ④ 무료 유지(권장, #6 상단 고정과 따로). 사진: backups/backup-20261003-1624-owner-mockup/mockup-owner.jpg | `tools/places/mockup-owner.html`(사이트에 링크 안 됨) → OK 뒤 assets/places.js 버튼 + data 의 `srcs` 에 '가게가 알려 줌' 출처 | 대기 |
 | 9 | 공개 여부(임대 카드) | **아침에 민구님이 보고 메뉴에 열지 결정** — 지금은 사이트 어디에도 링크 없음(`#rent`, 개발 도구로만 열림). ⚠ 17:20 방콕: 출처 FazWaz 이용 약관이 내용 복사·추출·모으기를 허락 없이 금지(https://www.lifullconnect.com/legal-notice-fazwaz/)라 **매물 10개는 내림** — 쪽에는 '내렸어요' 안내 + 약관 링크만. 메뉴에 열려면 허락받은 출처(제휴·API·가게·중개인이 직접 준 매물)가 먼저 필요. 사진: backups/backup-20261003-1714-rent-takedown/ | `data/rentals-pattaya.json`(빈 목록) · assets/places.js `rent` 쪽 | 대기 |
+| 10 | 광고 사진(드래곤 스웨디시 배너) | **실제 가게 사진을 배너에 넣을지** — 지금 광고 자리 16곳(맨 위·큰 배너·기사 사이 3·한국 뉴스 사이·메뉴·내 주변 5·지역 5·맨 아래)은 전부 같은 그림(용 그림 dragon.svg) + 같은 색·글꼴. 실제 사진은 없음: 구글 지도 사진은 약관상 못 씀, 지어낸 사진·남의 사진도 안 씀. 운영자가 직접 찍은 가게 사진(가로 사진 1장, 얼굴·손님 없이)을 주시면 같은 모양으로 넣음. 같이 바뀐 것: 구글 평점 칩(Google 4.5) 뺌. 사진: backups/backup-20261003-1749-ad-photos/ | `assets/ads/massage/ad.json` · `dragon-ad.js` | 대기 |

diff --git a/REGRESSION_CHECKLIST.md b/REGRESSION_CHECKLIST.md
@@ -41,3 +41,4 @@
 | 35 | 🏠 임대 카드 시험(#rent, 메뉴 링크 없음): ⛔ 17:20 내림 — 매물 0개, '내렸어요' 안내 + 출처 약관 링크, 사진 없음 | `tools/dev/regress.py` |
 | 36 | 속도: 쪽 화면 스크립트(pages.js·places.js)는 첫 기사 카드 뒤에 받음 — 주소 #places·#hearts 바로 열기, ☰ 메뉴·하트·승인함 그대로 | `tools/dev/regress.py` + `tools/dev/perf.py` |
 | 37 | 📇 Google 지도에서 온 한식·한인 가게(20곳+): 이름·동네·'구글 지도에서 보기'만 — 전화 버튼·+66 번호·평점 없음(Google 지도 약관) | `tools/dev/regress.py` |
+| 38 | 📢 광고 자리 전부 같은 드래곤 그림(dragon.svg) + 추천 업종 꼬리표, 구글 평점 칩 없음(Google 지도 약관) | `tools/dev/regress.py` |
